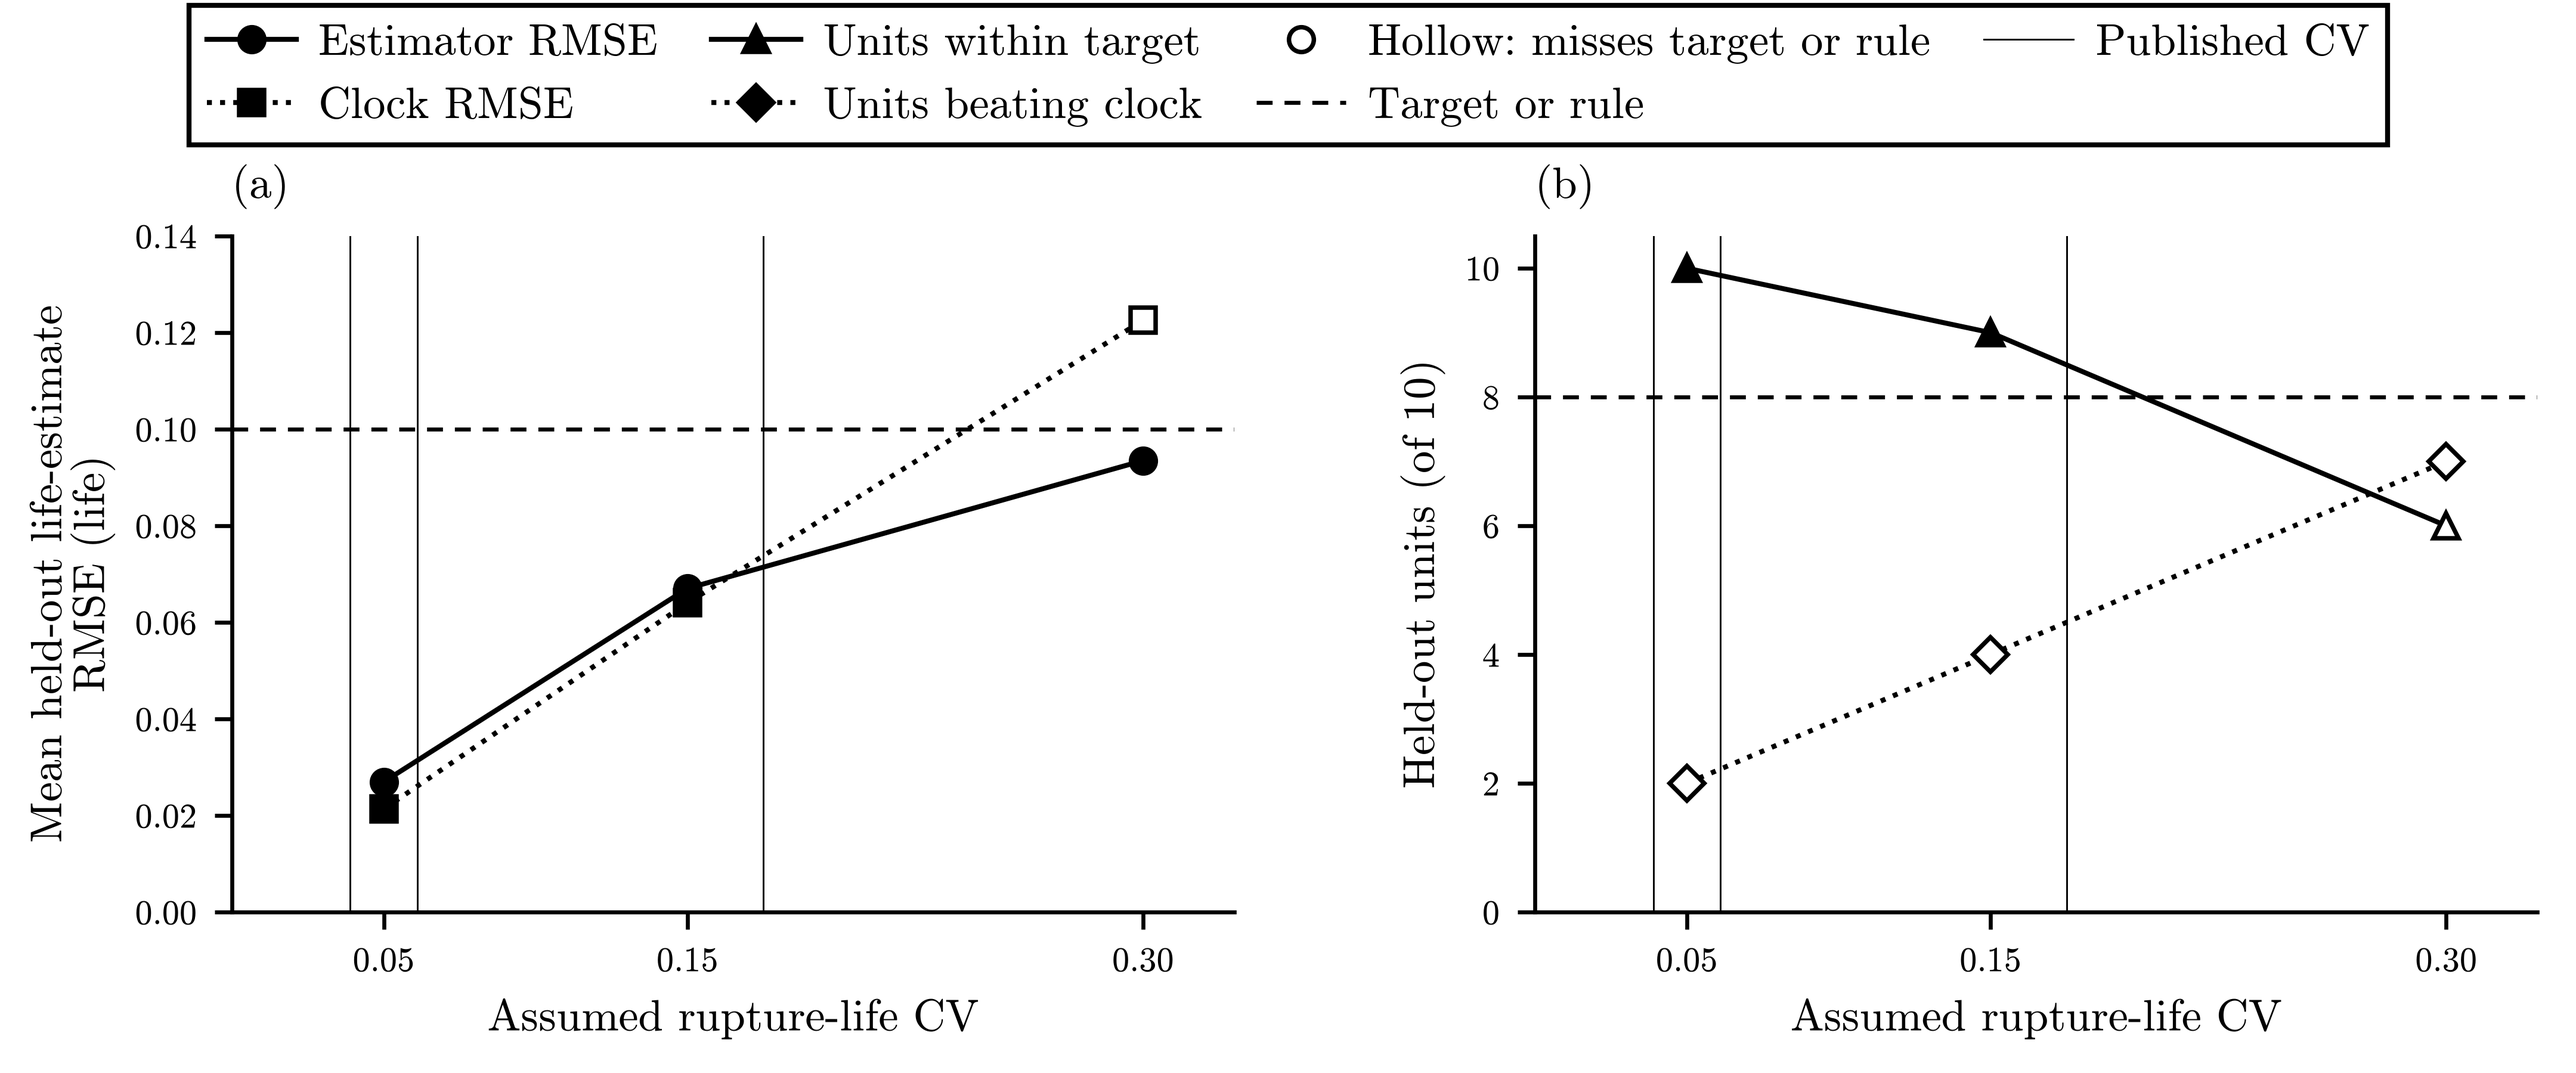
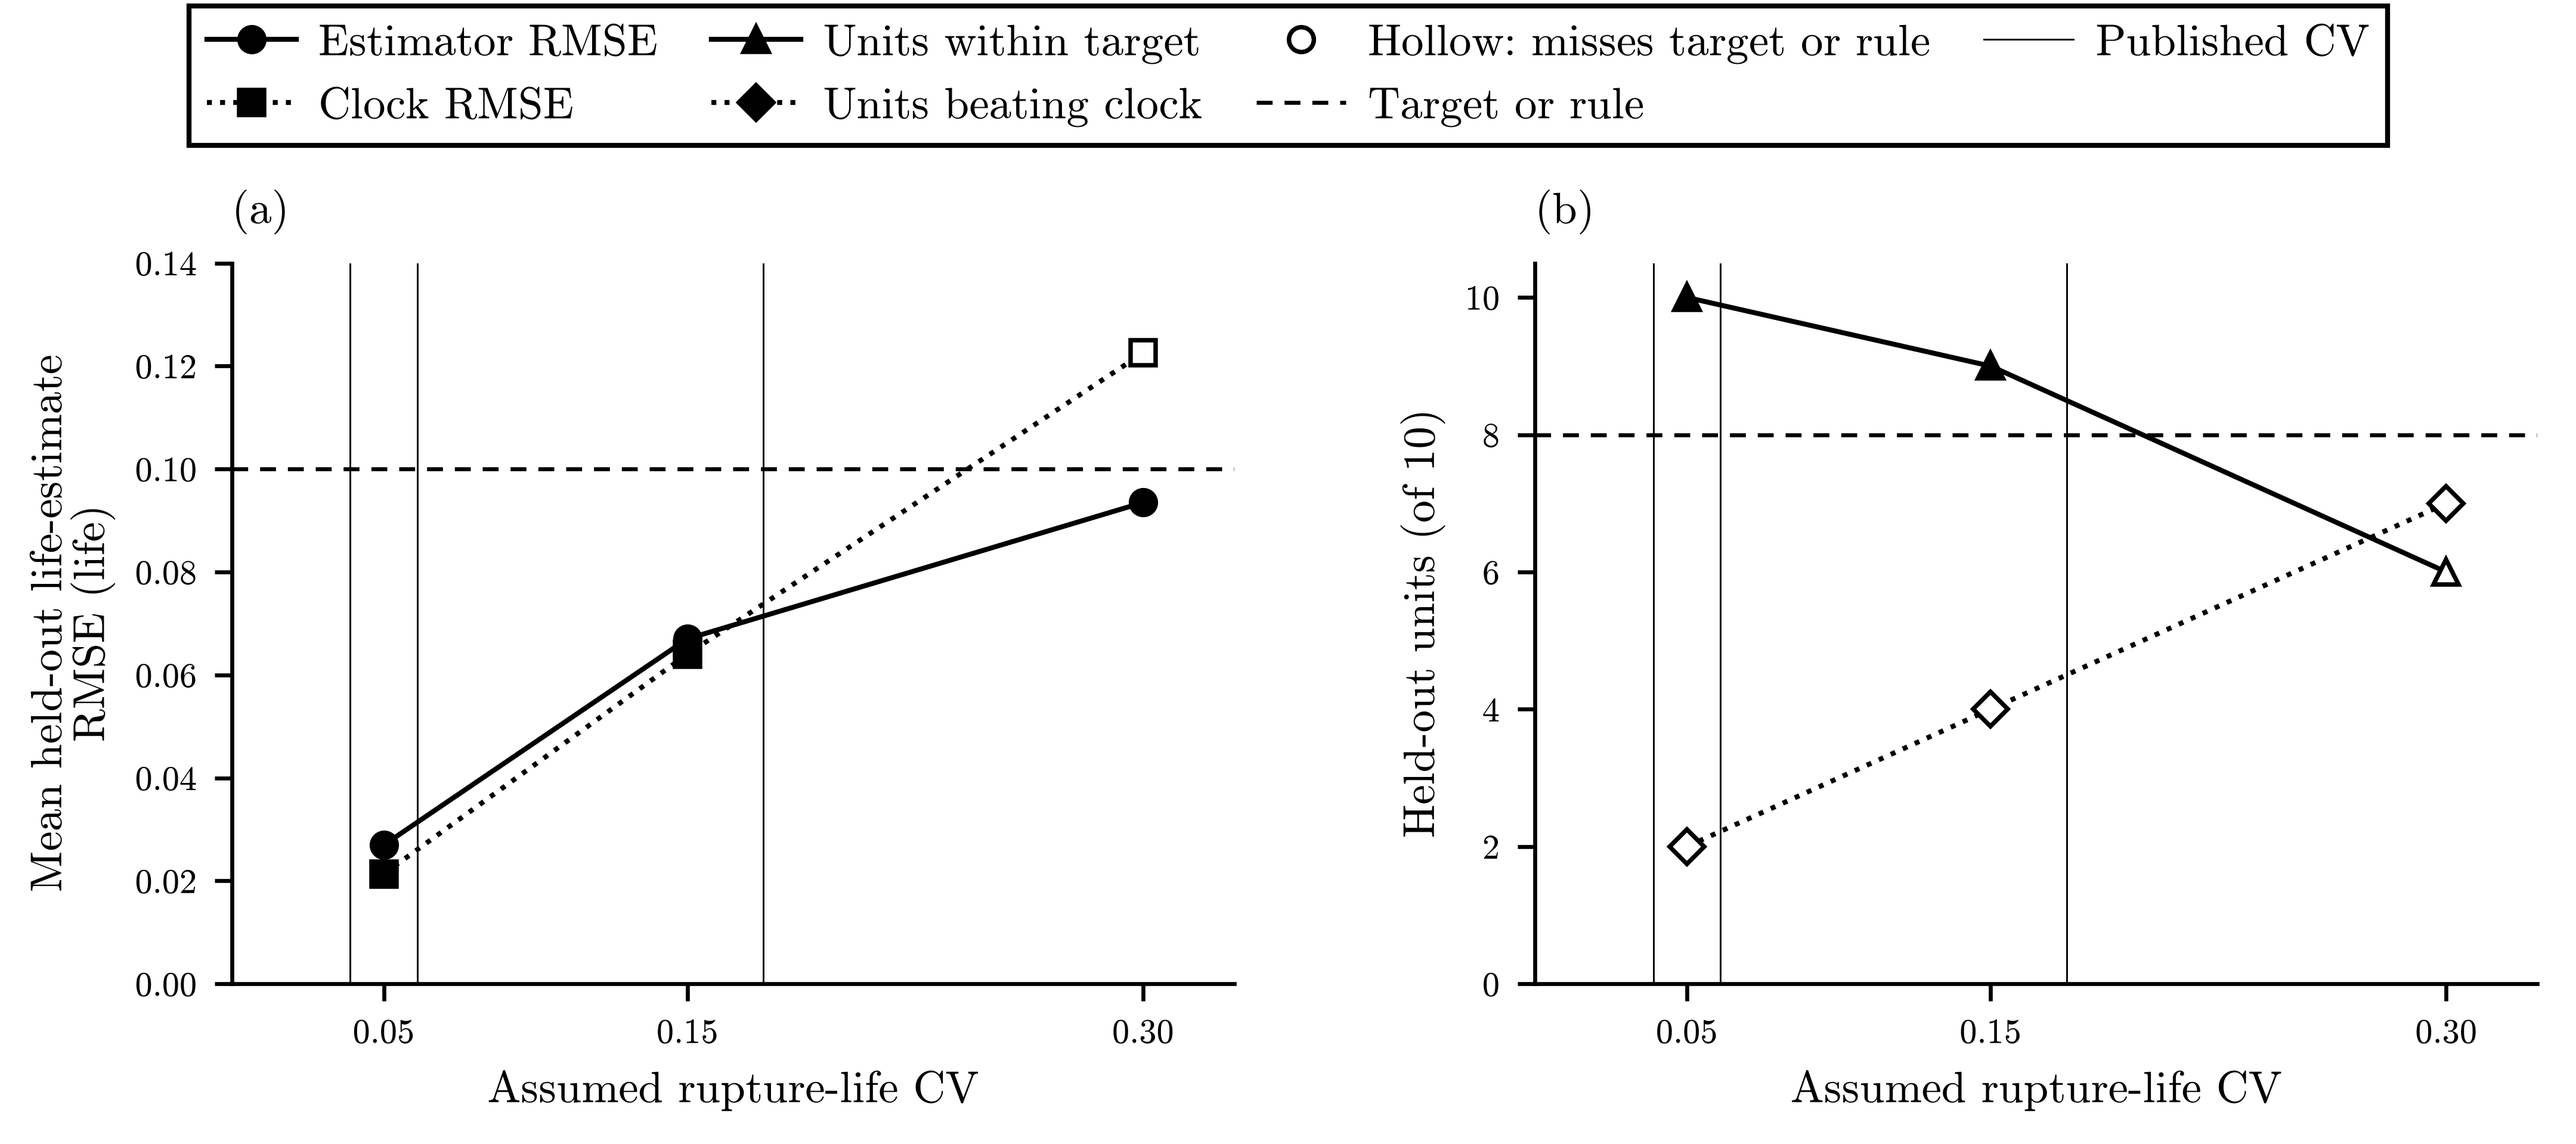
Give the dispersion audit legend more room

diff --git a/scripts/run_dispersion_audit.py b/scripts/run_dispersion_audit.py
@@ -233,8 +233,8 @@ def figure(results):
     sweep = results["B_transfer_sensitivity"]
     t, refs = sweep["results"], sweep["measured_reference_values"]
     cvs = [x["rupture_cv"] for x in t]
-    fig, axes = plt.subplots(1, 2, figsize=(figure_style.FULL, 3.0))
-    fig.subplots_adjust(left=.09, right=.985, top=.78, bottom=.15, wspace=.3)
+    fig, axes = plt.subplots(1, 2, figsize=(figure_style.FULL, 3.2))
+    fig.subplots_adjust(left=.09, right=.985, top=.77, bottom=.14, wspace=.3)
     panels = dict(zip("ab", axes))
     for ax in axes:
         for v in refs.values():
